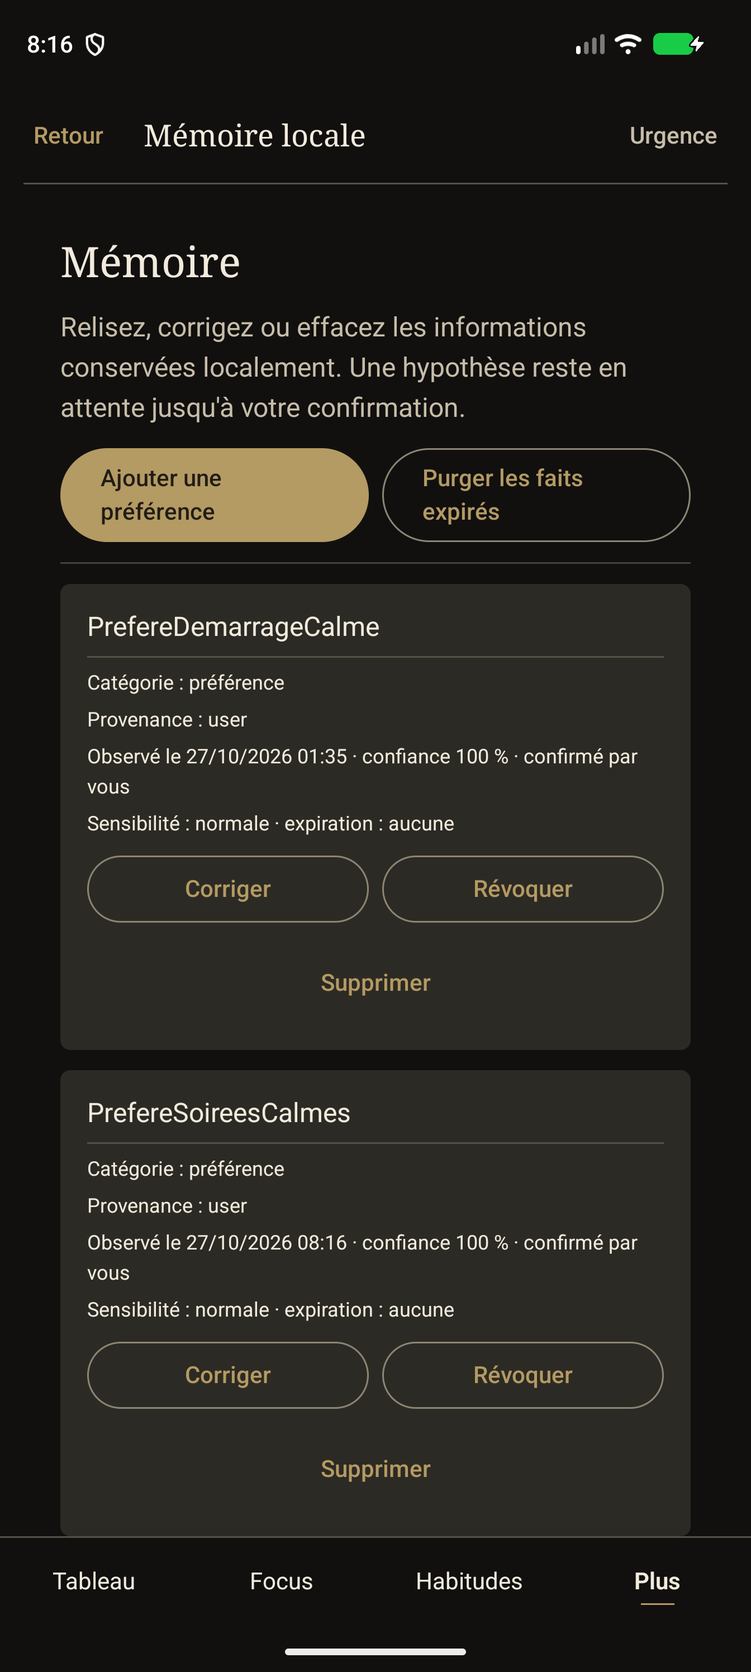
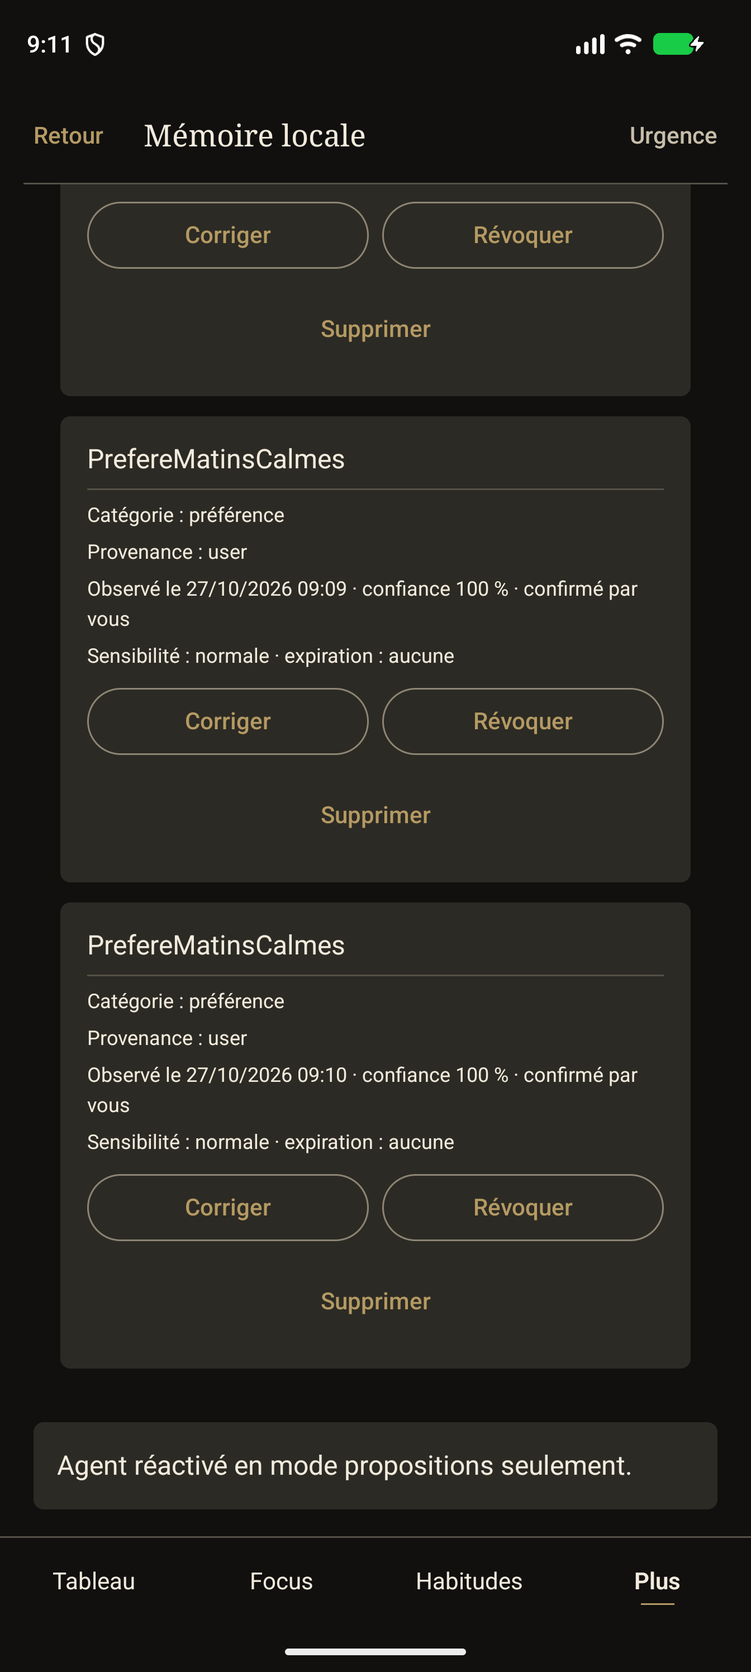
docs(r3a): final evidence for bakery lock and quota validation
Update final source/APK provenance to 3811ea5/8ad8d2d, record the
concurrent recovery stress test, quota validation, and rerun device
evidence. Keep third-review findings and the pending fourth review.

diff --git a/docs/v6-3/r3a/MATRICE_RECETTE.md b/docs/v6-3/r3a/MATRICE_RECETTE.md
@@ -9,20 +9,20 @@ SHA et à une commande. Une preuve émulateur ne vaut pas preuve Pixel.
 | ID | Gate | Commande | Statut |
 |---|---|---|---|
 | T1 | Backend complet | `backend/.venv/bin/python -m pytest -q` | **PASS** — 187 passed, 1 skipped |
-| T2 | JVM Android complète | `android/gradlew :app:testDebugUnitTest --rerun-tasks --max-workers=1` | **PASS** — 91 suites, 651 tests, 0 échec (rejoué sur `d89a626`) |
+| T2 | JVM Android complète | `android/gradlew :app:testDebugUnitTest --rerun-tasks --max-workers=1` | **PASS** — 91 suites, 651 tests, 0 échec (rejoué sur `3811ea5`) |
 | T3 | Lint | `android/gradlew :app:lintDebug` | **PASS** — 0 erreur, 70 avertissements |
-| T4 | Build debug | `android/gradlew :app:assembleDebug` | **PASS** — source `d89a626` |
-| T5 | Compilation androidTest | `android/gradlew :app:assembleDebugAndroidTest` | **PASS** — source `d89a626` |
-| T6 | Tests instrumentés API 37 | `am instrument` ciblé | **PASS** — 17/17 R2 + 4/4 calendrier + 1/1 E2E relais + 1/1 offline + 1/1 app controller + 4/4 lifecycle + 1/1 authenticator = 29 ; source `d89a626`, APK `fb19180…` |
-| T7 | Tests Node transport | `npm test` dans `integrations/relay/pc` | **PASS** — 29 tests, 8 fichiers, sur `d89a626` |
+| T4 | Build debug | `android/gradlew :app:assembleDebug` | **PASS** — source `3811ea5` |
+| T5 | Compilation androidTest | `android/gradlew :app:assembleDebugAndroidTest` | **PASS** — source `3811ea5` |
+| T6 | Tests instrumentés API 37 | `am instrument` ciblé | **PASS** — 17/17 R2 + 4/4 calendrier + 1/1 E2E relais + 1/1 offline + 1/1 app controller + 4/4 lifecycle + 1/1 authenticator = 29 ; source `3811ea5`, APK `8ad8d2d…` |
+| T7 | Tests Node transport | `npm test` dans `integrations/relay/pc` | **PASS** — 30 tests, 9 fichiers, sur `3811ea5` (dont stress de reprise concurrente) |
 | T8 | Build relais local | `docker build -t atlas-paseo-relay:r3a references/repos/paseo-relay` | **PASS** le 2026-10-26 |
 | T9 | Vecteurs Noise Kotlin = upstream | tests JVM ciblés | **PASS** — 31 tests du module relay, dont 5 `NoiseProtocolTest` avec vecteurs Paseo + cross-vector Node à clés fixes |
 | T10 | Interop Kotlin ↔ Node | relais local + client de test | **PASS** — Android Kotlin ↔ relais ↔ connecteur Node ↔ FastAPI ; round trip et offline sur APK final |
-| T11 | APK installé = SHA annoncé | `sha256sum` + `dumpsys package` + pull | **PASS** — APK final `fb19180…`, installé le 2026-10-27 08:01:21 ; suites et E2E exécutés dessus |
-| T12 | PC live Node → relais → connecteur → FastAPI | `node scripts/pc-live-check.mjs` | **PASS** — rerun 2026-10-27T07:19Z sur `d89a626` après redémarrage du connecteur : handshake protégé, auth, proposition V3, rejeu, cache |
+| T11 | APK installé = SHA annoncé | `sha256sum` + `dumpsys package` + pull | **PASS** — APK final `8ad8d2d…`, installé le 2026-10-27 08:53:57 ; suites et E2E exécutés dessus |
+| T12 | PC live Node → relais → connecteur → FastAPI | `node scripts/pc-live-check.mjs` | **PASS** — rerun 2026-10-27T07:52Z sur `3811ea5` après redémarrage du connecteur : handshake protégé, auth, proposition V3, rejeu, cache |
 | T13 | Calendrier local réel + Etar | tests instrumentés + captures | **PASS** — parcours UI v2→v3→v4 rejoué sur APK final, lifecycle final, fixture visible dans Etar |
 | T14 | Moteur durable + permissions réelles | tests instrumentés provider réel | **PASS** — reprise, idempotence, crash injecté, revoke/grant, divergence Etar ; re-création testée en JVM |
-| T15 | Module relay Android | `:app:testDebugUnitTest --tests 'dev.atlas.coach.sync.relay.*'` | **PASS** — 31 tests sur `d89a626` |
+| T15 | Module relay Android | `:app:testDebugUnitTest --tests 'dev.atlas.coach.sync.relay.*'` | **PASS** — 31 tests sur `3811ea5` |
 
 ## 2. Transport — cryptographie
 
@@ -92,11 +92,11 @@ historiques dans `preuves/PROVENANCE.md`.
 | K4 | `WRITE_CALENDAR` accordé | **PASS** — `pm grant` externe ; création/suppression réelles |
 | K5 | Calendrier local sélectionné | **PASS** — diagnostic : consentements, provisionnement et sélection `ATLAS R3A TEST` |
 | K6 | Calendrier étranger rejeté | **PASS (JVM)** — type `com.google` et type trompeur refusés |
-| K7 | Insertion réelle | **PASS** — `event_id=24` via le parcours UI final ; fixture provider historique `_id=2` |
+| K7 | Insertion réelle | **PASS** — `event_id=28` via le parcours UI final ; fixture provider historique `_id=2` |
 | K8 | Relecture réelle | **PASS** — marqueurs et fenêtre relus sur l'APK final |
 | K9 | Visibilité Etar | **PASS** — fixture `ATLAS TEST Etar visibility` visible dans Etar, capture `etar-final-restored.png` |
 | K10 | Modification | **PASS** — UI v3 « Mise à jour » sur l'APK final ; édition de titre également rejouée en historique |
-| K11 | Déplacement | **PASS** — UI v3 10:00→11:00, même `_id=24`, capture `calendar-final-move.png` |
+| K11 | Déplacement | **PASS** — UI v3 10:00→11:00, même `_id=28`, capture `calendar-final-move.png` |
 | K12 | Suppression | **PASS** — UI v4 « Suppression », provider vide, capture `calendar-final-delete.png` |
 | K13 | Doublon | **PASS** — une seule ligne par `CUSTOM_APP_URI` |
 | K14 | Crash | **PARTIAL** — crash injecté avant effet + reprise ; SIGKILL réel à rejouer |
@@ -104,7 +104,7 @@ historiques dans `preuves/PROVENANCE.md`.
 | K16 | Modification extérieure | **PASS** — titre modifié dans l'UI Etar |
 | K17 | Divergence | **PASS** — `DIVERGED` / `READ_BACK_MISMATCH` |
 | K18 | Révocation | **PASS** — révocation externe + refus d'effet |
-| K19 | Restauration fixtures | **PASS** — lifecycle restore/move/delete/restore sur APK final, `_id=23`, capture `etar-final-restored.png` |
+| K19 | Restauration fixtures | **PASS** — lifecycle restore/move/delete/restore sur APK final, `_id=27`, capture `etar-final-restored.png` |
 
 ## 6. Intégrations C
 
@@ -114,8 +114,8 @@ historiques dans `preuves/PROVENANCE.md`.
 | S2 | États `FRESH`/`STALE`/`UNAVAILABLE`/`MISMATCH` | **PASS (tests)** — mapping backend + client Android |
 | S3 | `trainingRef` persisté dans `DayPlan` | **PASS (JVM)** — round-trip, plan legacy, révision |
 | M1 | Parcours mémoire complet | **PASS** — ajout, consentement, affichage, persistance après force-stop et relance ; `preuves/memory-ui.txt` |
-| U1 | Usage Access réel sur émulateur | **PASS** — appops `GET_USAGE_STATS: allow`, consentement, résumé de 6 événements, capture ; `preuves/usage-global-ui.txt` |
-| U2 | Quotas et révocation | **PARTIAL** — quota quotidien configuré et persisté en UI (90 min), affiché `UNKNOWN` tant que la fenêtre 24 h n'est pas pleinement observée ; révocation et purge PASS ; fenêtre 7 jours couverte en JVM |
+| U1 | Usage Access réel sur émulateur | **PASS** — appops `GET_USAGE_STATS: allow`, consentement, résumé final de 6 événements (148 sur un build antérieur), capture ; `preuves/usage-global-ui.txt` |
+| U2 | Quotas et révocation | **PARTIAL** — quota quotidien configuré et persisté en UI (90 min), validation 1–1440 sans crash, affiché `UNKNOWN` tant que la fenêtre 24 h n'est pas pleinement observée ; révocation et purge PASS ; fenêtre 7 jours couverte en JVM |
 | B1 | Plugin Bridge : tests existants non régressés | **PASS** — 50 tests / 3 fichiers, plugin ni installé ni activé |
 
 ## 7. Verdict

diff --git a/docs/v6-3/r3a/REGISTRE_R3A.md b/docs/v6-3/r3a/REGISTRE_R3A.md
@@ -1,6 +1,6 @@
 # ATLAS V6.3 — Campagne R3-A — Registre
 
-Statut : **CLOSING — troisième revue indépendante en cours**. Ce registre est la
+Statut : **CLOSING — quatrième revue indépendante en cours**. Ce registre est la
 source de vérité R3-A.
 
 ## 1. Base et environnement
@@ -27,9 +27,10 @@ source de vérité R3-A.
 | Paseo Relay | `3fc41c96…` |
 | Sauvegarde AVD | snapshot `atlas-r3a-pre` |
[1 lines of base64/hex data omitted]
-| SHA source final | `d89a626a3b879b9ddce7486ec8f1b76b61845a37` |
[1 lines of base64/hex data omitted]
-| SHA de la revue précédente | `e28b7a9bfc0d6405cd0d311eb87d4d2dd33f5832` (NO_GO : 3 P1, 4 P2) |
+| SHA source final | `3811ea51c8c4bffeb7b70d1197c3c4003e16c948` |
[1 lines of base64/hex data omitted]
+| SHA de la revue 2 | `e28b7a9bfc0d6405cd0d311eb87d4d2dd33f5832` (NO_GO : 3 P1, 4 P2) |
+| SHA de la revue 3 | `7b3dc31f531fed94a6c1ef617c553a56e2f2d16d` / code `d89a626` (NO_GO : 1 P1, 2 P2, 1 P3) |
 
 ## 2. Règles appliquées
 
@@ -59,7 +60,7 @@ source de vérité R3-A.
 | `R3-SPORT-WIRE-01` | wger lecture → FastAPI → Android, `trainingRef` | `backend/...`, `training/**`, `plan/{Models,Codec,Engine}`, `SportScreen.kt` | backend + JVM + UI | **ACCEPTED / INTEGRATED** — `235faff`, merge `50fde6f`, UI `4d6a875` ; 7 backend ciblés, 187 backend, 41 Android ciblés, 588 JVM ; câblage UI vérifié (UNAVAILABLE + démo explicite) |
 | `R3-MEMORY-UI-01` | parcours mémoire complet | `memory/**`, `app/Memory*.kt` | tests JVM + UI réelle + persistance | **ACCEPTED (parent)** — `ee085a8`, merge `06c1e2e` ; tests JVM, ajout/consentement/affichage, force-stop/relance, capture |
 | `R3-USAGE-UI-01` | Usage Access réel sur émulateur | `usage/**`, `app/GlobalUsage*.kt` | permission + statistiques | **ACCEPTED (parent)** — `7e65b9f`, merge `b9ba1ef` ; `GET_USAGE_STATS: allow`, 6 événements réels, révocation/purge, persistance ; quota non configuré |
-| `R3-REVIEW-01` | revue indépendante lecture seule | aucun | grille de revue | **CORRECTIONS_APPLIED / THIRD_REVIEW_PENDING** — 3 P1 + 4 P2 de `e28b7a9` corrigés sur `d89a626` ; troisième revue à faire |
+| `R3-REVIEW-01` | revue indépendante lecture seule | aucun | grille de revue | **CORRECTIONS_APPLIED / FOURTH_REVIEW_PENDING** — 1 P1 + 2 P2 + 1 P3 de `7b3dc31`/`d89a626` corrigés sur `3811ea5` ; quatrième revue à faire |
 
 ## 4. Journal
 
@@ -114,12 +115,14 @@ source de vérité R3-A.
 | 2026-10-27 | Provenance des preuves | `preuves/PROVENANCE.md` distingue preuves finales et captures historiques |
 | 2026-10-27 | Seconde revue indépendante | **NO_GO** sur `e28b7a9` — P1 verrou périmé, P1 UI calendrier non rejouée sur APK final, P1 aucun quota réel ; P2 semaine, Tink, authenticator exporté, index de preuves |
 | 2026-10-27 | Correctifs de la seconde revue | verrou atomique avec vérification de vivacité et test inter-processus ; quota quotidien persisté + fenêtre 7 jours ; authenticator protégé par `ACCOUNT_MANAGER` + test réel ; Tink corrigé ; index synchronisé |
-| 2026-10-27 | Rejeu UI calendrier final | **PASS** — création `_id=24`, idempotence, déplacement v3 même id, suppression v4 ; captures `calendar-final-*.png` |
-| 2026-10-27 | Parcours mémoire final | **PASS** — seconde préférence ajoutée sur l'APK final, persistance après force-stop |
-| 2026-10-27 | Usage final | **PASS observation** — 148 événements, quota 90 min persisté, révocation/purge ; quota `UNKNOWN` tant que la fenêtre 24 h n'est pas pleine |
+| 2026-10-27 | Rejeu UI calendrier final | **PASS** — création `_id=28`, idempotence, déplacement v3 même id, suppression v4 ; captures `calendar-final-*.png` |
+| 2026-10-27 | Parcours mémoire final | **PASS** — trois préférences synthétiques, persistance après force-stop |
+| 2026-10-27 | Usage final | **PASS observation** — 6 événements sur l'APK final (148 sur un build antérieur), quota 90 min persisté et validé, révocation/purge ; quota `UNKNOWN` tant que la fenêtre 24 h n'est pas pleine |
 | 2026-10-27 | Instrumentés finaux | **PASS** — 17 R2 + 4 calendrier + 1 relay + 1 offline + 1 app controller + 4 lifecycle + 1 authenticator |
-| 2026-10-27 | Gates finales `d89a626` | backend 187/1 skip ; JVM 91/651 ; lint 0 erreur ; Node 29 ; Bridge 50 ; PC live PASS ; APK `fb19180` ; voir `preuves/gates-final.txt` |
-| 2026-10-27 | Lifecycle calendrier final `d89a626` | **PASS** — restore/move/delete/restore, fixture `_id=23`, capture `etar-final-restored.png` |
+| 2026-10-27 | Troisième revue indépendante | **NO_GO** sur `d89a626` — P1 reprise concurrente du verrou ; P2 délais par défaut, P2 quota invalide ; P3 compte d'événements matrice |
+| 2026-10-27 | Correctifs revue 3 | verrou bakery à records stables par nonce + stress 10 rounds ; timeout 15 s ; validation UI 1–1440 ; matrice synchronisée |
+| 2026-10-27 | Gates finales `3811ea5` | backend 187/1 skip ; JVM 91/651 ; lint 0 erreur ; Node 30 ; Bridge 50 ; PC live PASS ; APK `8ad8d2d` ; voir `preuves/gates-final.txt` |
+| 2026-10-27 | Lifecycle calendrier final `3811ea5` | **PASS** — restore/move/delete/restore, fixture `_id=27`, capture `etar-final-restored.png` |
 
 ## 5. Preuves
 

diff --git a/docs/v6-3/r3a/HANDOFF_R3A.md b/docs/v6-3/r3a/HANDOFF_R3A.md
@@ -1,6 +1,6 @@
 # ATLAS V6.3 R3-A — Handoff
 
-Statut : **campagne locale, GO_WITH_LIMITATIONS sous réserve de la troisième
+Statut : **campagne locale, GO_WITH_LIMITATIONS sous réserve de la quatrième
 revue indépendante**. Aucun push, PR, merge distant ni déploiement public n'a
 été effectué.
 
@@ -11,8 +11,8 @@ revue indépendante**. Aucun push, PR, merge distant ni déploiement public n'a
 | Branche de campagne | `feat/atlas-v6-3-r3a-relay-calendar` |
 | Base `main` vérifiée | `6a22c12bc5a2c63c3d3ab56253679c897fadb75d` |
 | SHA des contrats | `4f7b9263c76986c0a410f87a22268993568b3646` |
-| Dernier SHA de référence | `d89a626a3b879b9ddce7486ec8f1b76b61845a37` (commits R3-A locaux) |
[1 lines of base64/hex data omitted]
+| Dernier SHA de référence | `3811ea51c8c4bffeb7b70d1197c3c4003e16c948` (commits R3-A locaux) |
[1 lines of base64/hex data omitted]
 | Registre | `docs/v6-3/r3a/REGISTRE_R3A.md` |
 | Décisions | `docs/v6-3/r3a/DECISIONS_ARCHITECTURE.md` |
 | Transport | `docs/v6-3/r3a/TRANSPORT_PASEO.md` |
@@ -78,16 +78,17 @@ revue indépendante**. Aucun push, PR, merge distant ni déploiement public n'a
 
 ### Mémoire et usage global
 
-- Mémoire locale durable : ajout d'une préférence synthétique avec consentement
+- Mémoire locale durable : trois préférences synthétiques avec consentement
   explicite, affichage des métadonnées, persistance après `force-stop` et
-  relance. Capture `memory-preference.png`.
+  relance. Capture `memory-preference-final.png`.
 - Usage Access réel sur `emulator-5554` : `GET_USAGE_STATS: allow`, consentement
-  séparé avec catégorie `package_names`, résumé de 148 événements réels
-  (ATLAS, Etar), révocation et purge, persistance après redémarrage.
-- Quota quotidien configurable et persisté (90 min dans la recette) ; affiché
-  `UNKNOWN` tant que la fenêtre 24 h n'est pas pleinement observée. La fenêtre
-  hebdomadaire est prise en charge par l'observateur jusqu'à 7 jours et couverte
-  en JVM.
+  séparé avec catégorie `package_names`, résumé final de 6 événements réels
+  (ATLAS, Etar, Pixel Launcher), révocation et purge, persistance après
+  redémarrage.
+- Quota quotidien configurable et persisté (90 min dans la recette), validation
+  1–1440 sans crash ; affiché `UNKNOWN` tant que la fenêtre 24 h n'est pas
+  pleinement observée. La fenêtre hebdomadaire est prise en charge par
+  l'observateur jusqu'à 7 jours et couverte en JVM.
 - Preuves : `preuves/memory-ui.txt`, `preuves/usage-global-ui.txt`.
 
 ### Intégrations C
@@ -121,10 +122,10 @@ revue indépendante**. Aucun push, PR, merge distant ni déploiement public n'a
 | Lint | **PASS** (0 erreur, 70 avertissements) |
 | `assembleDebug` / `assembleDebugAndroidTest` | **PASS** |
 | Instrumentés de référence | **17/17 R2 + 4/4 calendrier + 1/1 E2E relais + 1/1 offline + 1/1 app controller + 4/4 lifecycle + 1/1 authenticator = 29** |
-| Relay Node | **29 tests PASS** + relais réel + live FastAPI |
+| Relay Node | **30 tests PASS** + relais réel + live FastAPI |
 | Bridge plugin (non activé) | **50 tests PASS** |
 | Parcours mémoire / usage | **PASS** (quota configuré et persisté ; évaluation effective PARTIAL) |
[2 lines of base64/hex data omitted]
 
 Détail : `preuves/gates-final.txt`, `preuves/PROVENANCE.md`.
 
@@ -151,12 +152,13 @@ Détail : `preuves/gates-final.txt`, `preuves/PROVENANCE.md`.
 | R3-USAGE-UI-01 | `33b6c3b3…` | `codex/gpt-6-luna/xhigh` |
 | Revue indépendante (1) | `c3f97221…` | `codex/gpt-6-luna/xhigh` |
 | Re-revue indépendante (2) | `d87dec39…` (NO_GO sur `e28b7a9`) | `codex/gpt-6-luna/xhigh` |
-| Re-revue indépendante (3) | à lancer sur `d89a626` | `codex/gpt-6-luna/xhigh` |
+| Re-revue indépendante (3) | `ebb8d049…` (NO_GO sur `d89a626`) | `codex/gpt-6-luna/xhigh` |
+| Re-revue indépendante (4) | à lancer sur `3811ea5` | `codex/gpt-6-luna/xhigh` |
 
 ## 8. Verdict
 
 Verdict local proposé : **GO_WITH_LIMITATIONS** pour la portée R3-A sur
-émulateur, sous réserve de la troisième revue indépendante sur `d89a626`.
+émulateur, sous réserve de la quatrième revue indépendante sur `3811ea5`.
 V6.3 reste **NO_GO** globalement tant que Pixel physique, accès Internet réel,
 TLS/WSS public, recette LTE/5G et veille/Doze ne sont pas qualifiés. L'évaluation
 effective des quotas et la supervision 24 h/24 restent partielles.

diff --git a/docs/v6-3/r3a/preuves/PROVENANCE.md b/docs/v6-3/r3a/preuves/PROVENANCE.md
@@ -1,7 +1,7 @@
 # R3-A evidence provenance
 
-Le code final de la campagne est `d89a626a3b879b9ddce7486ec8f1b76b61845a37`,
[1 lines of base64/hex data omitted]
+Le code final de la campagne est `3811ea51c8c4bffeb7b70d1197c3c4003e16c948`,
[1 lines of base64/hex data omitted]
 Les preuves historiques produits pendant les vagues antérieures conservent leur
 propre commit/APK ; elles ne servent pas à revendiquer un PASS sur l'APK final.
 
@@ -16,16 +16,16 @@ propre commit/APK ; elles ne servent pas à revendiquer un PASS sur l'APK final.
 | `calendar-final-instrumented.txt` | `eaad907` | `af5ac60` | instrumentation pré-Wave-C | historique |
 | `calendar-ui-flow.txt` | `eaad907` | non enregistré | parcours UI création/déplacement/suppression | historique ; remplacé par `calendar-ui-final.txt` |
 | `e2e-emulator.txt` | `fa4d290` | `e7dd637` | E2E Android relayé, 5 phases | historique ; rejoué sur l'APK final |
-| `sport-ui.txt` | `4d6a875` | non enregistré | UI sport indisponible + démo | historique ; code et tests rejoués sur `d89a626` |
-| `relay-build.txt` | `d89a626` | n/a | image relais et santé loopback | **final** |
-| `relay-tests.txt` | `d89a626` | n/a | Node 29 + module relay Android 31 | **final** |
-| `pc-live-fastapi.txt` | `d89a626` | n/a | Node → relais → connecteur → FastAPI | **final** |
-| `gates-final.txt` | `d89a626` | `fb19180` | backend, JVM, lint, builds, Node, Bridge | **final** |
-| `instrumented.txt` | `d89a626` | `fb19180` | 17 R2 + 4 calendrier + E2E relais + offline + app controller + lifecycle + authenticator | **final** |
-| `calendar-lifecycle-final.txt` | `d89a626` | `fb19180` | restore/move/delete/restore | **final** |
-| `calendar-ui-final.txt` | `d89a626` | `fb19180` | parcours UI v2→v3→v4 + idempotence | **final** |
-| `memory-ui.txt` | `d89a626` | `fb19180` | parcours mémoire + persistance après force-stop | **final** |
-| `usage-global-ui.txt` | `d89a626` | `fb19180` | Usage Access réel, quota persisté, révocation | **final** |
+| `sport-ui.txt` | `4d6a875` | non enregistré | UI sport indisponible + démo | historique ; code et tests rejoués sur `3811ea5` |
+| `relay-build.txt` | `3811ea5` | n/a | image relais et santé loopback | **final** |
+| `relay-tests.txt` | `3811ea5` | n/a | Node 30 + module relay Android 31 | **final** |
+| `pc-live-fastapi.txt` | `3811ea5` | n/a | Node → relais → connecteur → FastAPI | **final** |
+| `gates-final.txt` | `3811ea5` | `8ad8d2d` | backend, JVM, lint, builds, Node, Bridge | **final** |
+| `instrumented.txt` | `3811ea5` | `8ad8d2d` | 17 R2 + 4 calendrier + E2E relais + offline + app controller + lifecycle + authenticator | **final** |
+| `calendar-lifecycle-final.txt` | `3811ea5` | `8ad8d2d` | restore/move/delete/restore | **final** |
+| `calendar-ui-final.txt` | `3811ea5` | `8ad8d2d` | parcours UI v2→v3→v4 + idempotence | **final** |
+| `memory-ui.txt` | `3811ea5` | `8ad8d2d` | parcours mémoire + persistance après force-stop | **final** |
+| `usage-global-ui.txt` | `3811ea5` | `8ad8d2d` | Usage Access réel, quota persisté, révocation | **final** |
 
 ## Règles de lecture
 

diff --git a/docs/v6-3/r3a/REVUE_INDEPENDANTE_R3A.md b/docs/v6-3/r3a/REVUE_INDEPENDANTE_R3A.md
@@ -34,20 +34,36 @@
 
 ## 3. Troisième revue (lecture seule)
 
-- Périmètre demandé : SHA `d89a626a3b879b9ddce7486ec8f1b76b61845a37`,
[1 lines of base64/hex data omitted]
+- Session : `ebb8d049-65a3-4bf8-bbfd-6e863e7e1cf4`, modèle `codex/gpt-6-luna`,
+  effort `xhigh`, worktree `review-r3a-final-7b3dc31`.
+- Périmètre : docs `7b3dc31f531fed94a6c1ef617c553a56e2f2d16d`, code
+  `d89a626a3b879b9ddce7486ec8f1b76b61845a37`, APK
[1 lines of base64/hex data omitted]
+- Verdict : **NO_GO** (1 P1, 2 P2, 1 P3).
+
+| Sévérité | Constat | Correction sur `3811ea5` | Statut |
+|---|---|---|---|
+| P1 | deux récupérateurs pouvaient supprimer le nouveau verrou et entrer ensemble | verrou bakery : record stable par nonce, `choosing`, ticket total, reprise ignorée si le propriétaire est mort ; stress inter-processus 10 rounds × 6 workers | **CORRIGÉ** |
+| P2 | délai 5 s < seuil de péremption 10 s | remplacé par un timeout de 15 s et une reprise immédiate d'un propriétaire mort | **CORRIGÉ** |
+| P2 | quota `1441` provoquait une exception au clic | validation UI 1–1440, message d'erreur, bouton désactivé, test réel sur l'APK final | **CORRIGÉ** |
+| P3 | matrice à 6 événements contre preuve à 148 | matrice synchronisée avec le rejeu final (6 événements sur l'APK final) | **CORRIGÉ** |
+
+## 4. Quatrième revue (lecture seule)
+
+- Périmètre demandé : SHA `3811ea51c8c4bffeb7b70d1197c3c4003e16c948`,
[1 lines of base64/hex data omitted]
 - Session : à lancer.
 - Verdict : **EN ATTENTE**.
 
-La troisième revue doit vérifier au minimum :
+La quatrième revue doit vérifier au minimum :
 
 1. Absence de token ou de secret dans stdout, logs, preuves et captures.
-2. Verrou : reprise d'un verrou périmé sans perte d'exclusivité, test
-   inter-processus, révocation non écrasée.
+2. Verrou bakery : records stables, reprise sans perte d'exclusivité, stress
+   concurrent, révocation non écrasée.
 3. Re-création calendrier, parcours UI final et absence de doublon.
-4. Provenance : chaque PASS final lié à `d89a626` et à l'APK `fb19180…`.
-5. Quota : configuration et persistance dans le parcours de production,
-   sémantique `UNKNOWN` sur couverture partielle, fenêtre hebdomadaire.
+4. Provenance : chaque PASS final lié à `3811ea5` et à l'APK `8ad8d2d…`.
+5. Quota : validation 1–1440, persistance, sémantique `UNKNOWN` sur couverture
+   partielle, fenêtre hebdomadaire.
 6. Authenticator : permission de liaison et AccountManager fonctionnel.
 7. Mémoire et Usage Access : consentement, purge, persistance, aucune lecture de
    contenu d'écran.

diff --git a/docs/v6-3/r3a/CALENDRIER_ETAR.md b/docs/v6-3/r3a/CALENDRIER_ETAR.md
@@ -76,7 +76,7 @@ content insert`, aucune donnée système fabriquée ne sert de preuve.
 | C1 | Calendrier local sélectionné | catalogue + sélection explicite | **PASS** — écran de diagnostic : consentements lecture/écriture, provisionnement et sélection `ATLAS R3A TEST` |
 | C2 | Création d'activité | `DayPlan` versionné | **PASS** — plan approuvé v2 avec activité, via `PlanController` de production |
 | C3 | Validation de la révision | confirmation groupée | **PASS** — dialogue « Programme v2 · 1 effet(s) », confirmation explicite |
-| C4 | Création événement CalendarContract | `event_id` relu | **PASS** — `event_id=24` via le parcours UI rejoué sur l'APK final ; `event_id=11` et fixture `_id=2` en historique |
+| C4 | Création événement CalendarContract | `event_id` relu | **PASS** — `event_id=28` via le parcours UI rejoué sur l'APK final ; `event_id=11` et fixture `_id=2` en historique |
 | C5 | Relecture provider | hash et marqueurs conformes | **PASS** — titre, fenêtre, `customAppPackage`, `customAppUri` relus |
 | C6 | Affichage réel dans Etar | capture + requête provider | **PASS** — `ATLAS TEST Etar visibility` visible, capture `preuves/captures/etar-month-view.png` |
 | C7 | Déplacement | `dtstart`/`dtend` relus | **PASS** — déplacement 22:30→23:00 via provider, capture `etar-moved.png` |
@@ -94,7 +94,7 @@ content insert`, aucune donnée système fabriquée ne sert de preuve.
 | C19 | Calendrier supprimé/indisponible | `PROVIDER_UNAVAILABLE`/`CALENDAR_NOT_LOCAL` | **PASS (JVM)** — mapping testé ; suppression réelle du calendrier non rejouée |
 | C20 | READ_CALENDAR refusé | aucune lecture | **PARTIAL (JVM)** — fail-closed testé ; parcours UI externe non rejoué |
 | C21 | WRITE_CALENDAR refusé | aucune écriture | **PASS** — révocation externe, `PERMISSION_DENIED`, provider inchangé |
-| C22 | Restauration des fixtures | état initial restauré | **PASS** — `restoresFixture` final, `_id=23`, capture `etar-final-restored.png` |
+| C22 | Restauration des fixtures | état initial restauré | **PASS** — `restoresFixture` final, `_id=27`, capture `etar-final-restored.png` |
 
 ## 5. Règles de sûreté
 
